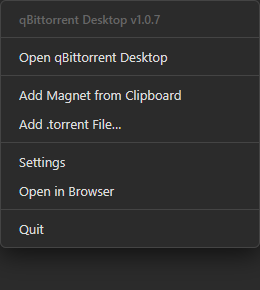
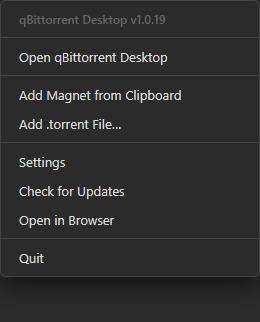
README: move Components under Features, refresh screenshots, clarify Related
- Components table moved to directly below Features
- Regenerated settings + tray-menu screenshots for the tabbed Settings window
  and the new "Check for Updates" tray item (v1.0.19)
- Related section now states the app works with ANY qBittorrent Web UI
  (local, remote IP, NAS, or any Docker container) — the PIA stack is optional

diff --git a/README.md b/README.md
@@ -48,6 +48,19 @@ A Windows 11 desktop client for qBittorrent running on a remote machine or Docke
 - **Path mapping** — maps remote server paths to local mounted paths (e.g. `/downloads` → `Z:\qbittorrent`)
 - **.torrent file association** — open .torrent files directly with the app
 
+## Components
+
+<!-- COMPONENTS:START (auto-generated by scripts/update-components.js — do not edit by hand) -->
+| Component | Version |
+|---|---|
+| Electron | 42.4.1 |
+| Chromium | 148.0.7778.265 |
+| Node.js (bundled) | 24.16.0 |
+| V8 | 14.8.178.31 |
+| electron-builder | 26.15.3 |
+| electron-updater | 6.8.9 |
+<!-- COMPONENTS:END -->
+
 ## Screenshots
 
 | Main Window | Settings | Tray Menu |
@@ -56,7 +69,9 @@ A Windows 11 desktop client for qBittorrent running on a remote machine or Docke
 
 ## Related
 
-This app is designed to work alongside **[pia-qbittorrent-docker](https://github.com/GeorgeAL78/pia-qbittorrent-docker)** — a Docker setup that runs qBittorrent behind a PIA VPN. If you're using that stack, point the Web UI URL in Settings to your Docker host and port.
+This app works with **any** qBittorrent instance that has the Web UI enabled — a local install, a remote server, a NAS, or any Docker container. Just point the Web UI URL in Settings to your qBittorrent host and port (e.g. `http://192.168.1.50:8080`).
+
+It pairs especially well with **[pia-qbittorrent-docker](https://github.com/GeorgeAL78/pia-qbittorrent-docker)** — a Docker setup that runs qBittorrent behind a PIA VPN — but that stack is **not** required; any qBittorrent Web UI works.
 
 ## Requirements
 
@@ -82,19 +97,6 @@ Produces an NSIS installer and a portable `.exe` in `dist/`:
 ```bash
 npm run build
 ```
-
-## Components
-
-<!-- COMPONENTS:START (auto-generated by scripts/update-components.js — do not edit by hand) -->
-| Component | Version |
-|---|---|
-| Electron | 42.4.1 |
-| Chromium | 148.0.7778.265 |
-| Node.js (bundled) | 24.16.0 |
-| V8 | 14.8.178.31 |
-| electron-builder | 26.15.3 |
-| electron-updater | 6.8.9 |
-<!-- COMPONENTS:END -->
 
 ## Settings
 